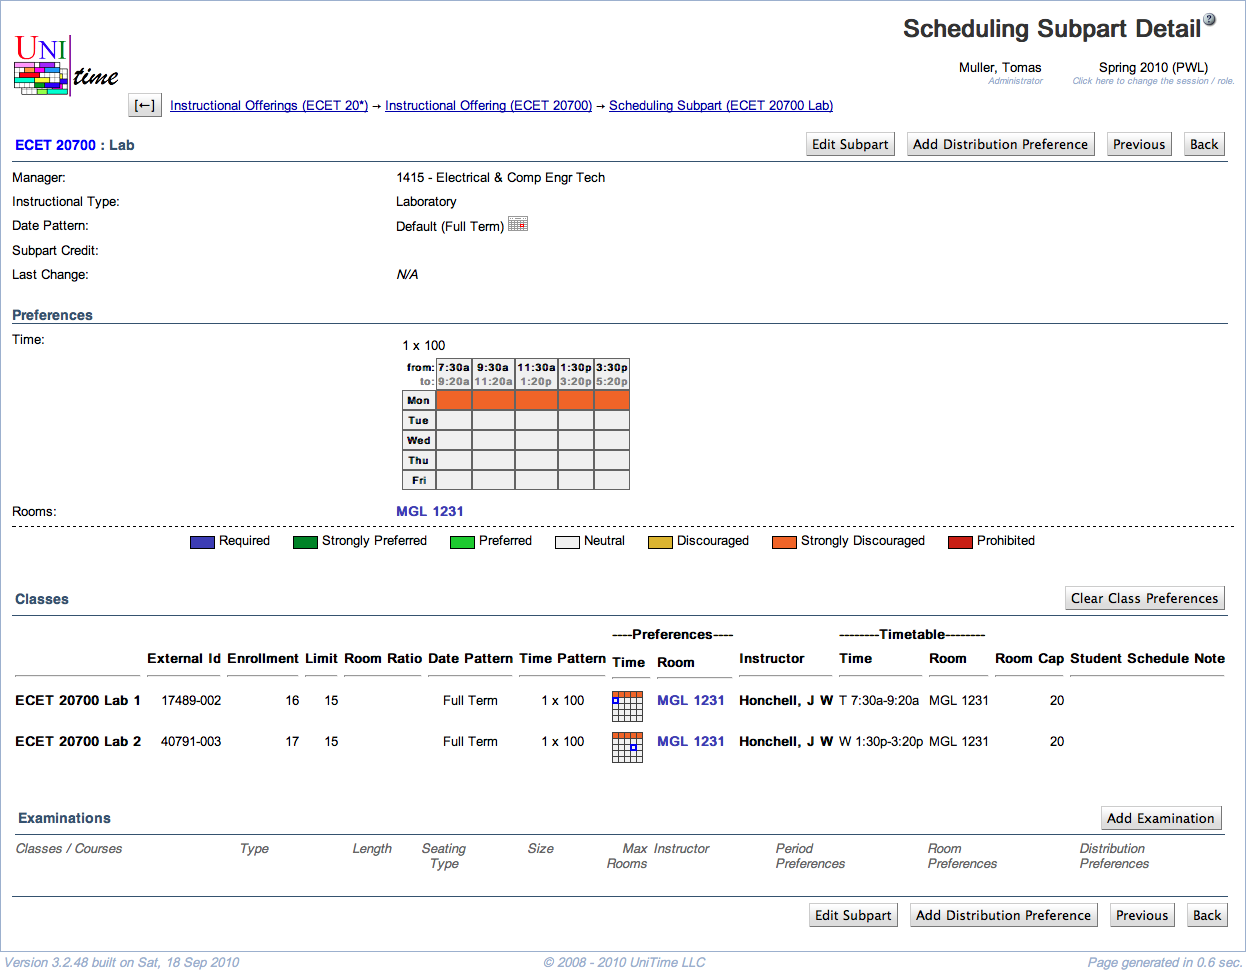
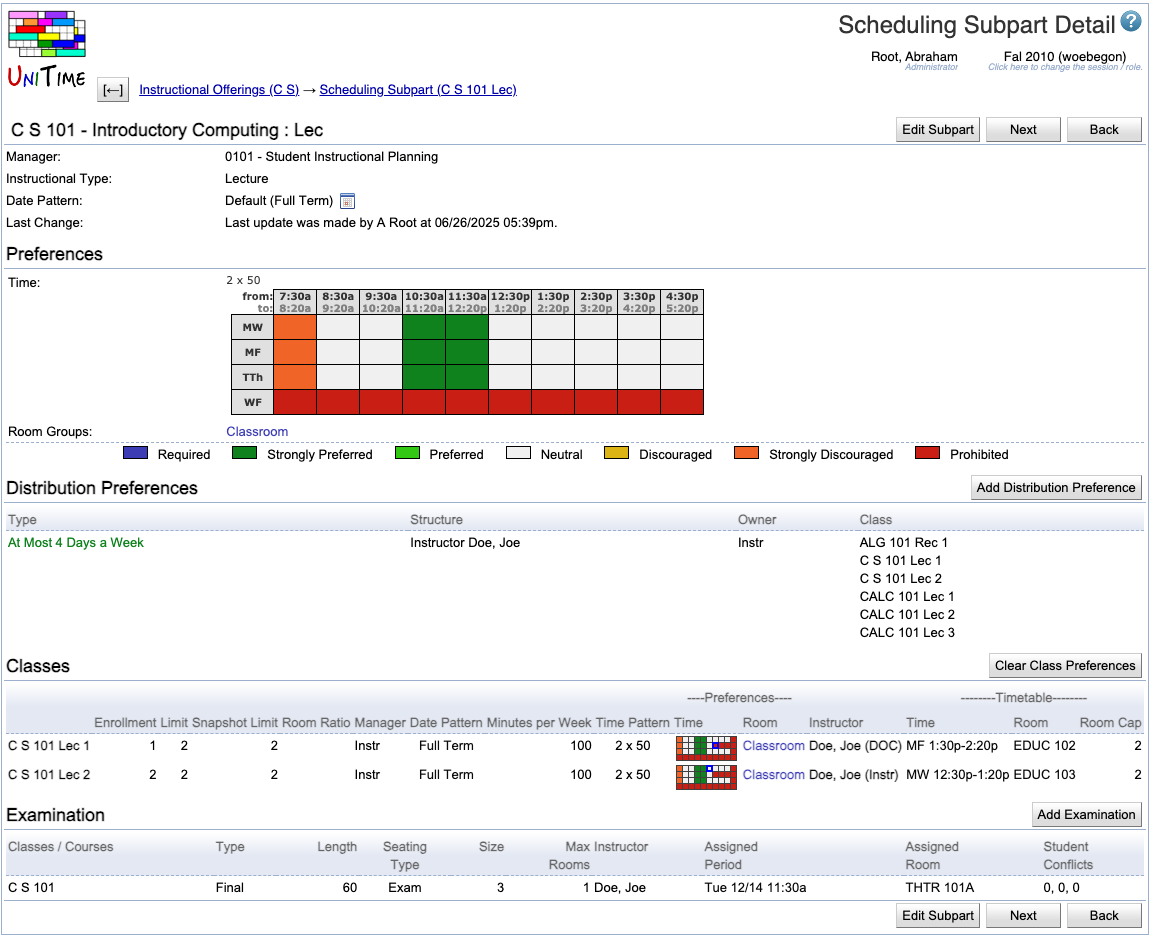
Scheduling Subpart Detail
- new screenshots, new fields, text cleanup

diff --git a/scheduling-subpart-detail.md b/scheduling-subpart-detail.md
@@ -16,68 +16,77 @@ The Scheduling Subpart Detail screen offers an overview of information about a s
 The following fields are displayed in the upper part of the screen (below the name of the scheduling subpart):
 
 * **Manager**
-	* Manager responsible for timetabling the classes of this scheduling subpart
-	* Editable in the [Multiple Class Setup](multiple-class-setup) screen
+    * Manager responsible for timetabling the classes of this scheduling subpart
+    * Editable in the [Multiple Class Setup](multiple-class-setup) screen
 
 * **Instructional Type**
-	* The instructional type of the classes of this scheduling subpart (such as lecture, recitation, ...)
-	* Editable in the [Edit Scheduling Subpart](edit-scheduling-subpart) screen
+    * The instructional type of the classes of this scheduling subpart (such as lecture, recitation, ...)
+    * Editable in the [Edit Scheduling Subpart](edit-scheduling-subpart) screen
 
 * **Date Pattern**
-	* Weeks throughout the semester during which the classes of this scheduling subpart are taught
-	* Editable in the [Edit Scheduling Subpart](edit-scheduling-subpart) screen
+    * Weeks throughout the semester during which the classes of this scheduling subpart are taught
+    * Editable in the [Edit Scheduling Subpart](edit-scheduling-subpart) screen
 
 * **Subpart Credit**
-	* Credit that is attributable to this subpart
-	* Not editable in this application
+    * Credit that is attributable to this subpart
+    * Only editable when the subpart credit is enabled using the `tmtbl.subpart.credit.editable` property in the [Application Configuration](application-configuration).
 
 * **Last Change**
-	* Information about the last change made to the scheduling subpart (recorded automatically when the [Edit Scheduling Subpart](edit-scheduling-subpart) screen is updated)
+    * Information about the last change made to the scheduling subpart (recorded automatically when the [Edit Scheduling Subpart](edit-scheduling-subpart) screen is updated)
 
 ### Preferences
 
 * Any preferences that have been set up for this scheduling subpart (with color coding for preference levels)
-	* More detailed description of the preferences can be found in the help screen for the [Edit Scheduling Subpart](edit-scheduling-subpart) screen 
+    * A more detailed description of the preferences can be found in the help screen for the [Edit Scheduling Subpart](edit-scheduling-subpart) screen 
 
 * To change the preferences, click on the Edit Subpart button to get to the [Edit Scheduling Subpart](edit-scheduling-subpart) screen
+
+### Distribution Preferences
+* The list of distribution preferences applicable to this scheduling subpart or some of its classes.
+* Click on any line to open the [Edit Distribution Preference](edit-distribution-preference) page for any of the distributions.
+    * [Instructor Detail](instructor-detail) page is opened when the distribution preference is set on an instructor.
+
+There is one operation in the Distribution Preferences section:
+
+* **Add Distribution Preference** (Alt+A)
+    * Go to the [Distribution Preferences](distribution-preferences) screen to add a new distribution preference
+        * The scheduling subpart will be pre-populated in that screen
 
 ### Classes
 
 * A list of all the classes of the scheduling subpart
-	* For an explanation of the column headings please see the description of the filter in the [Instructional Offerings](instructional-offerings) screen
+    * For an explanation of the column headings, please see the description of the filter in the [Instructional Offerings](instructional-offerings) screen
 
 * Click on a line with a class to get to the [Class Detail](class-detail) screen for that class
 
-* There is one operation in the Classes section:
-	* **Clear Class Preferences**
-		* Delete preferences on all classes of this scheduling subpart and apply the preferences of this scheduling subpart (in combination with instructor's preferences, if applicable).
+There is one operation in the Classes section:
+
+* **Clear Class Preferences**
+    * Delete preferences on all classes of this scheduling subpart and apply the preferences of this scheduling subpart (in combination with the instructor's preferences, if applicable).
 
 ### Examinations
 
 * A list of examinations associated with this scheduling subpart
-	* For an explanation of the column headings please see the description of the column headings in the [Examinations](examinations) screen
-	* The column **Student Conflicts** contains numbers of "Direct", ">2 a day", and "Back-To-Back" conflicts
+    * For an explanation of the column headings, please see the description of the column headings in the [Examinations](examinations) screen
+    * The column **Student Conflicts** contains numbers of "Direct", ">2 a day", and "Back-To-Back" conflicts
 
 * Click on a line with an examination to get to its [Examination Detail](examination-detail) screen
 
-* There is one operation in the Examinations section:
-	* **Add Examination** (Alt+X)
-		* Go to the [Add Examination](add-examination) screen to add a new examination with the scheduling subpart filled in already
+There is one operation in the Examinations section:
+
+* **Add Examination** (Alt+X)
+    * Go to the [Add Examination](add-examination) screen to add a new examination with the scheduling subpart filled in already
 
 ## Operations
 
 * **Edit Subpart** (Alt+E)
-	* Go to the [Edit Scheduling Subpart](edit-scheduling-subpart) screen to edit properties and preferences for the scheduling subpart
-
-* **Add Distribution Preference** (Alt+A)
-	* Go to the [Distribution Preferences](distribution-preferences) screen to add a new distribution preference
-		* The scheduling subpart will be pre-populated in that screen
+    * Go to the [Edit Scheduling Subpart](edit-scheduling-subpart) screen to edit properties and preferences for the scheduling subpart
 
 * **Previous** (Alt+P)
-	* Go to the Scheduling Subpart Detail screen for the previous scheduling subpart
+    * Go to the Scheduling Subpart Detail screen for the previous scheduling subpart
 
 * **Next** (Alt+N)
-	* Go to the Scheduling Subpart Detail screen for the next scheduling subpart
+    * Go to the Scheduling Subpart Detail screen for the next scheduling subpart
 
 * **Back** (Alt+B)
-	* Go to the previous non-editable screen (from which you entered this one)
+    * Go to the previous non-editable screen (from which you entered this one)
